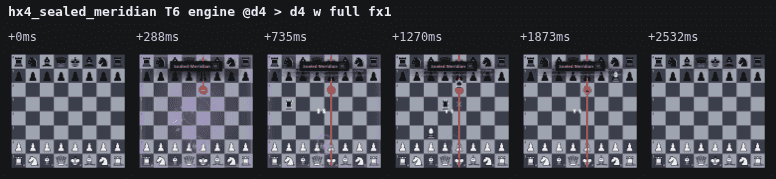
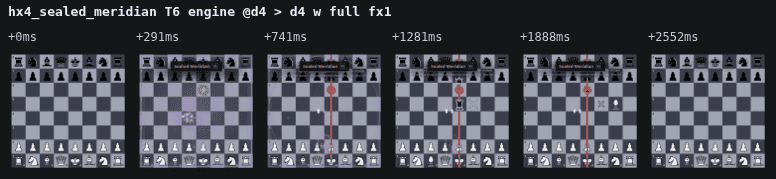
Sealed Meridian: their rook now slides b5 to e5 and stops on the sealed file, which the card allows, and the cross lands on f5 beyond the line; the caster's bishop runs c1 to g5 so it no longer passes through the rook; after strip and off check retaken (slice TC-g review fix)
Claude-Session: https://claude.ai/code/session_01YECgEmH5LFGrr5Wy9Gqq3B

diff --git a/src/components/effects/g27ThornPlays.tsx b/src/components/effects/g27ThornPlays.tsx
@@ -1979,8 +1979,10 @@ function ProwlersBellRule({ lead, role, delayMs }: SceneProps) {
    pieces pass freely." A wax seal is pressed on the file and a
    red line runs down it (shown on the e-file; the play's own cuts mark the
    file chosen); two turn pips. Their rook on b5 slides along the rank and
-   is stopped at the line; their queen slides down the file itself, which is
-   allowed; the caster's bishop crosses the line unhindered. */
+   stops on e5, on the line itself, which is allowed; the step on to f5,
+   across it, is barred; their queen slides down the file itself, which is
+   allowed; the caster's bishop runs c1 to g5, crossing the line on e3
+   unhindered and clear of the rook. */
 const C_SMR = { core: "#c8483a", glow: "#fff0dc", deep: "#2c0e0a" };
 
 function SealedMeridianRule({ lead, role, delayMs }: SceneProps) {
@@ -1997,16 +1999,16 @@ function SealedMeridianRule({ lead, role, delayMs }: SceneProps) {
       </Q>
       <Q x={fc(4)} y="50%" w={1.4} h={100} cls="g27-r-grow" delayMs={d + 160} v={{ "--gd": "2s" }} style={{ background: c.core, transformOrigin: "50% calc(50% - var(--fx-side, 1) * 50%)" }} />
       <Pips n={2} r={3.5} x0={45} x1={50} color={c.glow} delayMs={d + 420} gd="1.6s" />
-      <Q x={fc(1)} y={rk(4)} w={11} h={11} cls="g27-r-go" delayMs={d + 560} v={{ "--gd": "1s", "--tx0": "0%", "--ty0": "0%", "--tx1": `calc(var(--fx-side, 1) * ${2 * fileIn(11)}%)`, "--ty1": "0%" }}>
+      <Q x={fc(1)} y={rk(4)} w={11} h={11} cls="g27-r-go" delayMs={d + 560} v={{ "--gd": "1s", "--tx0": "0%", "--ty0": "0%", "--tx1": `calc(var(--fx-side, 1) * ${3 * fileIn(11)}%)`, "--ty1": "0%" }}>
         <Man kind="r" fill={c.deep} stroke={c.glow} />
       </Q>
-      <Q x={fc(4)} y={rk(4)} w={7} h={7} cls="g27-r-stamp" delayMs={d + 860} v={{ "--gd": "0.9s" }}>
+      <Q x={fc(5)} y={rk(4)} w={7} h={7} cls="g27-r-stamp" delayMs={d + 1140} v={{ "--gd": "0.9s" }}>
         <Bar c={c} />
       </Q>
       <Q x={fc(4)} y={rk(6)} w={11} h={11} cls="g27-r-go" delayMs={d + 900} v={{ "--gd": "1s", "--tx0": "0%", "--ty0": "0%", "--tx1": "0%", "--ty1": `calc(var(--fx-side, 1) * ${1 * fileIn(11)}%)` }}>
         <Man kind="q" fill={c.deep} stroke={c.glow} />
       </Q>
-      <Q x={fc(2)} y={rk(2)} w={11} h={11} cls="g27-r-go" delayMs={d + 1100} v={{ "--gd": "0.9s", "--tx0": "0%", "--ty0": "0%", "--tx1": `calc(var(--fx-side, 1) * ${4 * fileIn(11)}%)`, "--ty1": `calc(var(--fx-side, 1) * ${-4 * fileIn(11)}%)` }}>
+      <Q x={fc(2)} y={rk(0)} w={11} h={11} cls="g27-r-go" delayMs={d + 1100} v={{ "--gd": "0.9s", "--tx0": "0%", "--ty0": "0%", "--tx1": `calc(var(--fx-side, 1) * ${4 * fileIn(11)}%)`, "--ty1": `calc(var(--fx-side, 1) * ${-4 * fileIn(11)}%)` }}>
         <Man kind="b" fill={c.glow} stroke={c.deep} />
       </Q>
     </Brd>

diff --git a/docs/polish-pass/slices/TC-g.md b/docs/polish-pass/slices/TC-g.md
@@ -132,7 +132,7 @@ Last batch, by module (before strips `before/<id>.png`, after strips `after/<id>
 | Card | Module | Scene |
 | --- | --- | --- |
 | hx4_prowlers_bell | g27 | The caster's half is ruled off and a bell hangs on each gate square of its third and fourth ranks; three pips; their knight lands on the empty c3 and the bell rings it back with a cross; their bishop takes on e2, a capture, and is let in. |
-| hx4_sealed_meridian | g27 | A wax seal is pressed on the file and a red line runs down it; two pips; their rook's slide across it is barred; their queen moves down the file itself; the caster's bishop crosses freely. |
+| hx4_sealed_meridian | g27 | A wax seal is pressed on the file and a red line runs down it; two pips; their rook slides b5 to e5 and stops on the file (allowed), and its step on to f5, across the line, is barred with a cross; their queen moves down the file itself; the caster's bishop runs c1 to g5, crossing the line on e3. |
 | hx4_gorgons_court | g28 | A gorgon's mask on the caster's flank looks at two of their pieces; the second one chosen turns to a walnut at once; the first makes its one move and then hardens; three pips. |
 | hx4_hunters_moon | g28 | A hunter's moon rises; four pips; their knight takes on d2 and hardens into a walnut on the square it took, with two pips for its two turns. |
 | bn4_stormcrossing | g42 | A bolt runs down the a-file; the caster's rook slides through its own a2 pawn to a5 and the bishop through d2 to g5, the pawns going pale as they are passed; each lands winded with a grey pip for the turn it sits out; three pips. |
@@ -151,3 +151,7 @@ Guards at this batch: test:animations, test:scene-complexity (2 below the floor,
 Strips in this batch use `--frames 6 --tile 120` to keep the evidence small (about 35 KB per card for before, after and off). `du -sh docs/polish-pass/evidence` reads 47M, over the 25 MB line; that was already true before this round and is left to the integrator.
 
 Where I stopped: every live tier 6 card in g01..g44 is done. Tier 5 and below in these modules has not been started.
+
+Review fix (round 3): Sealed Meridian's cross sat on e5, on the sealed file itself, after the rook stopped on d5, which said their rook could not even reach the file. The card lets their pieces move along the file, stop on it or leave it, and bars only crossing. The rook now slides b5 to e5 and stops on the file, and the cross lands on f5, the square beyond the line. The caster's bishop now starts on c1 (to g5, crossing on e3), so its diagonal no longer runs through the rook on e5. The after strip and its off check were retaken (off pass). All guards pass (test:scene-complexity 1 below the floor, baseline 2). `du -sh docs/polish-pass/evidence` reads 52M; this fix only replaced one strip.
+
+Where I stopped: every live tier 6 card in g01..g44 is done and the review's blocking finding is fixed. The non-blocking notes (Gorgon's Court thread delays, Puppeteer's Gala lead) are not addressed. Tier 5 and below in these modules has not been started.
